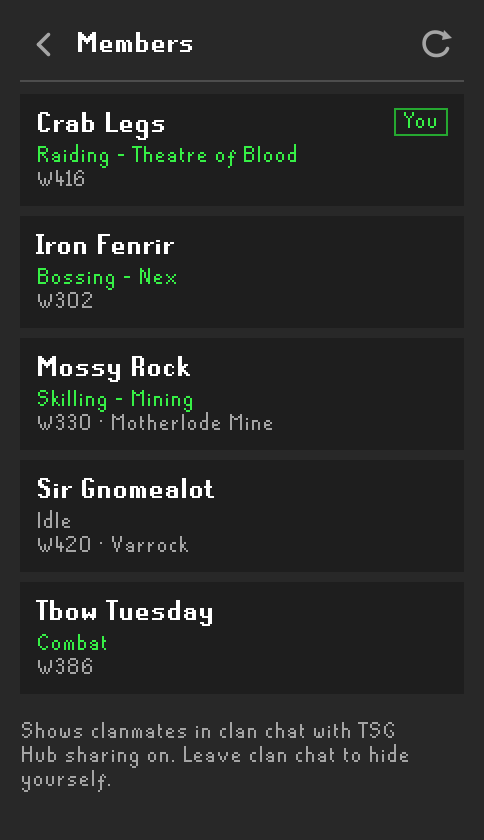
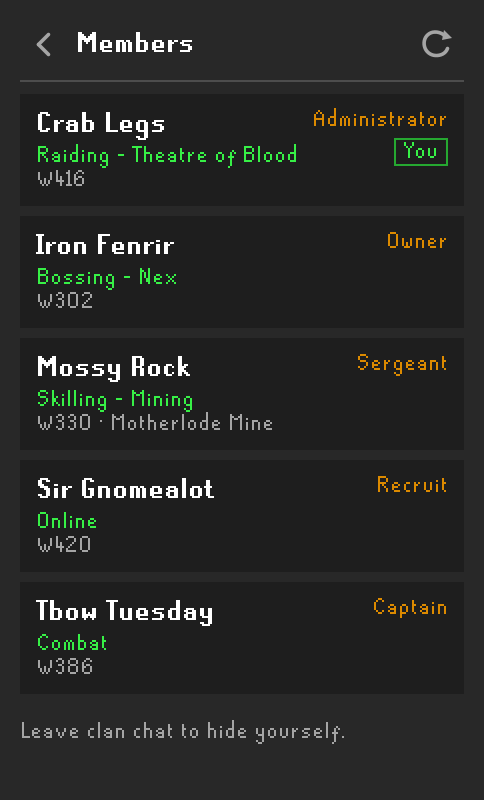
feat: add clan ranks and location sharing to members

diff --git a/src/main/java/com/tsghub/TsgHubPresence.java b/src/main/java/com/tsghub/TsgHubPresence.java
@@ -3,6 +3,9 @@ package com.tsghub;
 import com.google.gson.JsonArray;
 import com.google.gson.JsonObject;
 import com.tsghub.TsgHubUi.Tone;
+import java.awt.image.BufferedImage;
+import java.util.Map;
+import java.util.concurrent.ConcurrentHashMap;
 import java.util.concurrent.ScheduledExecutorService;
 import java.util.function.Consumer;
 import java.util.function.Supplier;
@@ -11,7 +14,12 @@ import net.runelite.api.Client;
 import net.runelite.api.GameState;
 import net.runelite.api.Player;
 import net.runelite.api.Skill;
+import net.runelite.api.clan.ClanMember;
+import net.runelite.api.clan.ClanSettings;
+import net.runelite.api.clan.ClanTitle;
 import net.runelite.api.coords.WorldPoint;
+import net.runelite.client.callback.ClientThread;
+import net.runelite.client.game.ChatIconManager;
 
 final class TsgHubPresence
 {
@@ -21,6 +29,9 @@ final class TsgHubPresence
 
 	private final TsgHubPlugin plugin;
 	private final Client client;
+	private final ClientThread clientThread;
+	private final ChatIconManager chatIcons;
+	private final Map<Integer, BufferedImage> rankIcons = new ConcurrentHashMap<>();
 	private final ScheduledExecutorService executor;
 	private final Supplier<TsgHubApi> api;
 	private final Supplier<TsgHubSidebarPanel> sidebar;
@@ -28,11 +39,13 @@ final class TsgHubPresence
 	private volatile JsonObject listed;
 	private volatile long sentAt;
 
-	TsgHubPresence(TsgHubPlugin plugin, Client client, ScheduledExecutorService executor,
+	TsgHubPresence(TsgHubPlugin plugin, Client client, ClientThread clientThread, ChatIconManager chatIcons, ScheduledExecutorService executor,
 		Supplier<TsgHubApi> api, Supplier<TsgHubSidebarPanel> sidebar)
 	{
 		this.plugin = plugin;
 		this.client = client;
+		this.clientThread = clientThread;
+		this.chatIcons = chatIcons;
 		this.executor = executor;
 		this.api = api;
 		this.sidebar = sidebar;
@@ -88,7 +101,10 @@ final class TsgHubPresence
 			try
 			{
 				JsonArray members = api.get().request("GET", "/v1/presence?clanName=" + clan, null, null).getAsJsonArray("members");
-				ui(s -> s.setMembers(members));
+				clientThread.invokeLater(() -> {
+					addRanks(members);
+					ui(s -> s.setMembers(members));
+				});
 			}
 			catch (Exception e) { if (!quiet) ui(s -> s.setStatus("Couldn't load members. " + TsgHubUi.friendlyError(e), Tone.ERROR)); }
 			finally { if (!quiet) ui(s -> s.setBusy(false)); }
@@ -101,6 +117,29 @@ final class TsgHubPresence
 		if (s != null && s.wantsMembers()) loadMembers(true);
 	}
 
+	private void addRanks(JsonArray members)
+	{
+		ClanSettings settings = client.getClanSettings();
+		if (settings == null) return;
+		for (int i = 0; i < members.size(); i++)
+		{
+			JsonObject member = members.get(i).getAsJsonObject();
+			ClanMember found = settings.findMember(TsgHubUi.str(member, "displayName"));
+			if (found == null || found.getRank() == null) continue;
+			ClanTitle title = settings.titleForRank(found.getRank());
+			if (title == null) continue;
+			if (title.getName() != null) member.addProperty("rank", title.getName());
+			member.addProperty("rankId", title.getId());
+			BufferedImage icon = chatIcons.getRankImage(title);
+			if (icon != null) rankIcons.put(title.getId(), icon);
+		}
+	}
+
+	BufferedImage rankIcon(JsonObject member)
+	{
+		return member.has("rankId") ? rankIcons.get(TsgHubUi.integer(member, "rankId", 0)) : null;
+	}
+
 	private JsonObject snapshot()
 	{
 		if (!plugin.sharingEnabled() || !plugin.isInHubClan() || !plugin.inClanChat()) return null;
@@ -109,7 +148,8 @@ final class TsgHubPresence
 		long hash = client.getAccountHash();
 		String name = plugin.getDetectedPlayerName();
 		if (player == null || player.getLocalLocation() == null || hash == -1 || name.isEmpty()) return null;
-		WorldPoint point = WorldPoint.fromLocalInstance(client, player.getLocalLocation());
+		boolean detailed = plugin.locationSharingEnabled();
+		WorldPoint point = detailed ? WorldPoint.fromLocalInstance(client, player.getLocalLocation()) : null;
 		AreaNames.Area area = point == null ? null : AreaNames.forRegion(point.getRegionID());
 		JsonObject payload = new JsonObject();
 		payload.addProperty("clanName", plugin.getDetectedClanName());
@@ -117,7 +157,7 @@ final class TsgHubPresence
 		payload.addProperty("accountHash", Long.toString(hash));
 		payload.addProperty("world", client.getWorld());
 		payload.addProperty("area", area == null ? "" : area.name);
-		payload.addProperty("activity", activity.activity(area, System.currentTimeMillis()));
+		payload.addProperty("activity", detailed ? activity.activity(area, System.currentTimeMillis()) : "Online");
 		return payload;
 	}
 

diff --git a/src/main/java/com/tsghub/TsgHubSidebarPanel.java b/src/main/java/com/tsghub/TsgHubSidebarPanel.java
@@ -348,8 +348,7 @@ final class TsgHubSidebarPanel extends PluginPanel
 		page.add(TsgHubUi.label("Share your progress", TsgHubUi.TEXT, FontManager.getRunescapeBoldFont()));
 		page.add(Box.createVerticalStrut(6));
 		page.add(TsgHubUi.wrapped("TSG Hub tracks your boss kills, drops and raids for clan events. "
-			+ "To do that it sends your RuneScape name, clan and rank, and that progress to your clan's event service. "
-			+ "While you're in clan chat, clanmates also see your world, area and what you're doing.",
+			+ "To do that it sends your RuneScape name, clan and rank, and that progress to your clan's event service.",
 			TsgHubUi.MUTED, FontManager.getRunescapeSmallFont(), TEXT_W));
 		page.add(Box.createVerticalStrut(4));
 		page.add(TsgHubUi.wrapped("Nothing is ever posted in game chat.", TsgHubUi.MUTED, FontManager.getRunescapeSmallFont(), TEXT_W));
@@ -466,6 +465,11 @@ final class TsgHubSidebarPanel extends PluginPanel
 		return members.size() + " online";
 	}
 
+	void locationSharingChanged()
+	{
+		if (view == View.MEMBERS) renderMembers();
+	}
+
 	void setMembers(JsonArray members)
 	{
 		this.members = members;
@@ -502,7 +506,8 @@ final class TsgHubSidebarPanel extends PluginPanel
 			}
 		}
 		page.add(Box.createVerticalStrut(8));
-		page.add(TsgHubUi.wrapped("Shows clanmates in clan chat with TSG Hub sharing on. Leave clan chat to hide yourself.", TsgHubUi.MUTED, small, TEXT_W));
+		page.add(TsgHubUi.wrapped(plugin.locationSharingEnabled() ? "Leave clan chat to hide yourself."
+			: "You show as Online. Turn on location sharing in settings to show what you're doing.", TsgHubUi.MUTED, small, TEXT_W));
 		refreshPage();
 	}
 
@@ -514,7 +519,16 @@ final class TsgHubSidebarPanel extends PluginPanel
 		int world = TsgHubUi.integer(member, "world", 0);
 		JPanel card = TsgHubUi.card();
 		JPanel text = TsgHubUi.stack();
-		text.add(TsgHubUi.label(TsgHubUi.html("<b>" + TsgHubUi.escape(name) + "</b>", CARD_TITLE_W), TsgHubUi.TEXT, FontManager.getRunescapeFont()));
+		String rank = TsgHubUi.str(member, "rank");
+		java.awt.image.BufferedImage rankIcon = plugin.presence().rankIcon(member);
+		JLabel nameLabel = TsgHubUi.label(TsgHubUi.html("<b>" + TsgHubUi.escape(name) + "</b>", CARD_TITLE_W - (rankIcon == null ? 0 : rankIcon.getWidth() + 4)), TsgHubUi.TEXT, FontManager.getRunescapeFont());
+		if (rankIcon != null)
+		{
+			nameLabel.setIcon(new javax.swing.ImageIcon(rankIcon));
+			nameLabel.setIconTextGap(4);
+			nameLabel.setToolTipText(rank);
+		}
+		text.add(nameLabel);
 		text.add(Box.createVerticalStrut(2));
 		if (!activity.isEmpty())
 			text.add(TsgHubUi.wrapped(activity, "Idle".equals(activity) ? TsgHubUi.MUTED : TsgHubUi.SUCCESS, FontManager.getRunescapeSmallFont(), CARD_TITLE_W));
@@ -523,12 +537,22 @@ final class TsgHubSidebarPanel extends PluginPanel
 		if (!area.isEmpty() && !activity.endsWith(area)) where.add(area);
 		if (!where.isEmpty()) text.add(TsgHubUi.wrapped(String.join(" · ", where), TsgHubUi.MUTED, FontManager.getRunescapeSmallFont(), CARD_TITLE_W));
 		card.add(text, BorderLayout.CENTER);
-		if (TsgHubUi.samePlayer(name, plugin.getDetectedPlayerName()))
+		boolean rankText = rankIcon == null && !rank.isEmpty();
+		boolean self = TsgHubUi.samePlayer(name, plugin.getDetectedPlayerName());
+		if (rankText || self)
 		{
-			JPanel east = new JPanel(new BorderLayout());
-			east.setOpaque(false);
-			east.add(TsgHubUi.badge("You", TsgHubUi.SUCCESS), BorderLayout.NORTH);
-			card.add(east, BorderLayout.EAST);
+			JPanel east = TsgHubUi.stack();
+			if (rankText) east.add(TsgHubUi.label(rank, TsgHubUi.ACCENT, FontManager.getRunescapeSmallFont()));
+			if (self)
+			{
+				if (rankText) east.add(Box.createVerticalStrut(3));
+				east.add(TsgHubUi.badge("You", TsgHubUi.SUCCESS));
+			}
+			for (java.awt.Component part : east.getComponents()) ((javax.swing.JComponent) part).setAlignmentX(RIGHT_ALIGNMENT);
+			JPanel wrap = new JPanel(new BorderLayout());
+			wrap.setOpaque(false);
+			wrap.add(east, BorderLayout.NORTH);
+			card.add(wrap, BorderLayout.EAST);
 		}
 		return TsgHubUi.fitHeight(card);
 	}

diff --git a/src/test/java/com/tsghub/ReadmeScreenshots.java b/src/test/java/com/tsghub/ReadmeScreenshots.java
@@ -32,6 +32,7 @@ public class ReadmeScreenshots
 	private static final int SCALE = 2;
 	private static final int SIDEBAR_W = 242;
 	private static JsonObject data;
+	private static boolean sharing;
 	private static File out;
 
 	public static void main(String[] args) throws Exception
@@ -61,12 +62,12 @@ public class ReadmeScreenshots
 		set(plugin, "detectedClanRank", 100);
 		set(plugin, "detectedPlayerName", "Crab Legs");
 		set(plugin, "groups", new TsgHubGroups(plugin, null, (PartyService) unsafe().allocateInstance(PartyService.class), null, null, null));
-		set(plugin, "presence", new TsgHubPresence(plugin, null, null, null, null));
+		set(plugin, "presence", new TsgHubPresence(plugin, null, null, null, stopped(), null, null));
 
 		TsgHubSidebarPanel sidebar = new TsgHubSidebarPanel(plugin, new GroupMembersPanel(new GroupViewSettings() {}, null, null));
 
 		sidebar.showSharingOff();
-		shoot(sidebar, SIDEBAR_W, 250, "sharing");
+		shoot(sidebar, SIDEBAR_W, 210, "sharing");
 
 		JsonArray events = data.getAsJsonObject("eventList").getAsJsonArray("events");
 		for (int i = 0; i < events.size(); i++)
@@ -96,8 +97,9 @@ public class ReadmeScreenshots
 		sidebar.showParties();
 		BufferedImage parties = shoot(sidebar, SIDEBAR_W, 480, "parties");
 
+		sharing = true;
 		sidebar.showMembers();
-		shoot(sidebar, SIDEBAR_W, 420, "members");
+		shoot(sidebar, SIDEBAR_W, 400, "members");
 
 		TsgHubPanel organizer = new TsgHubPanel(plugin);
 		organizer.setManagedEvents(data.getAsJsonObject("managed").getAsJsonArray("events"));
@@ -201,13 +203,20 @@ public class ReadmeScreenshots
 		return null;
 	}
 
-	// Interface stub returning false, 0 or null.
+	private static java.util.concurrent.ScheduledExecutorService stopped()
+	{
+		java.util.concurrent.ScheduledExecutorService executor = java.util.concurrent.Executors.newSingleThreadScheduledExecutor();
+		executor.shutdown();
+		return executor;
+	}
+
+	// Interface stub returning false, 0 or null, with sharing on once enabled.
 	@SuppressWarnings("unchecked")
 	private static <T> T stub(Class<T> type)
 	{
 		return (T) Proxy.newProxyInstance(type.getClassLoader(), new Class<?>[]{type}, (proxy, method, args) -> {
 			Class<?> r = method.getReturnType();
-			if (r == boolean.class) return false;
+			if (r == boolean.class) return sharing && (method.getName().equals("dataSharingOptIn") || method.getName().equals("shareLocation"));
 			if (r == int.class) return 0;
 			if (r == long.class) return 0L;
 			return null;

diff --git a/src/main/java/com/tsghub/TsgHubPlugin.java b/src/main/java/com/tsghub/TsgHubPlugin.java
@@ -82,6 +82,7 @@ public class TsgHubPlugin extends Plugin
 	@Inject private MouseManager mouseManager;
 	@Inject private okhttp3.OkHttpClient okHttpClient;
 	@Inject private ChatMessageManager chatMessageManager;
+	@Inject private net.runelite.client.game.ChatIconManager chatIconManager;
 	@Inject private net.runelite.client.party.PartyService partyService;
 	@Inject private net.runelite.client.party.WSClient wsClient;
 	@Inject private net.runelite.client.game.SpriteManager spriteManager;
@@ -157,7 +158,7 @@ public class TsgHubPlugin extends Plugin
 		eventBus.register(groupTracker);
 		groupTracker.start();
 		executor.scheduleAtFixedRate(groups::heartbeat, 5, TsgHubGroups.HEARTBEAT_SECONDS, TimeUnit.SECONDS);
-		presence = new TsgHubPresence(this, client, executor, this::api, () -> sidebar);
+		presence = new TsgHubPresence(this, client, clientThread, chatIconManager, executor, this::api, () -> sidebar);
 		executor.scheduleAtFixedRate(presence::autoRefresh, TsgHubPresence.REFRESH_SECONDS, TsgHubPresence.REFRESH_SECONDS, TimeUnit.SECONDS);
 		boardOverlay = new TsgHubBoardOverlay(client);
 		overlayManager.add(boardOverlay);
@@ -250,6 +251,7 @@ public class TsgHubPlugin extends Plugin
 
 	String getDetectedClanName() { return detectedClanName; }
 	boolean sharingEnabled() { return config.dataSharingOptIn(); }
+	boolean locationSharingEnabled() { return config.dataSharingOptIn() && config.shareLocation(); }
 	TsgHubGroups groups() { return groups; }
 	TsgHubPresence presence() { return presence; }
 	boolean inClanChat() { return inClanChat; }
@@ -361,6 +363,11 @@ public class TsgHubPlugin extends Plugin
 		{
 			boolean expand = "partyExpandMembers".equals(event.getKey());
 			SwingUtilities.invokeLater(() -> sidebar.groupSettingsChanged(expand));
+			return;
+		}
+		if ("shareLocation".equals(event.getKey()))
+		{
+			SwingUtilities.invokeLater(() -> sidebar.locationSharingChanged());
 			return;
 		}
 		if (!"dataSharingOptIn".equals(event.getKey())) return;

diff --git a/src/main/java/com/tsghub/TsgHubConfig.java b/src/main/java/com/tsghub/TsgHubConfig.java
@@ -8,11 +8,20 @@ import net.runelite.client.config.ConfigSection;
 @ConfigGroup("tsghub")
 public interface TsgHubConfig extends Config
 {
+	@ConfigSection(name = "Sharing", description = "What TSG Hub sends to the clan's event service.", position = 0)
+	String sharingSection = "sharing";
+
 	@ConfigSection(name = "Party", description = "How clan parties look in the TSG Hub sidebar.", position = 10)
 	String partySection = "party";
 
-	@ConfigItem(keyName = "dataSharingOptIn", position = 0, name = "Share game and clan progress", description = "Opt in to send your RuneScape name, detected clan and rank, PvM progress, loot received during events you join, submitted claims, clan chat presence, and your world, area name and current activity while you're in clan chat to the TSG Hub service. Progress and tile-completion notices are local to your chatbox; no game chat is sent.")
+	@ConfigItem(keyName = "dataSharingOptIn", position = 0, section = sharingSection, name = "Share game and clan progress", description = "Opt in to send your RuneScape name, detected clan and rank, PvM progress, loot received during events you join, submitted claims, and clan chat presence and world (so clanmates see you as online in the Members list) to the TSG Hub service. Progress and tile-completion notices are local to your chatbox; no game chat is sent.")
 	default boolean dataSharingOptIn()
+	{
+		return false;
+	}
+
+	@ConfigItem(keyName = "shareLocation", position = 1, section = sharingSection, name = "Share location and activity", description = "Show clanmates your area name and what you're doing (for example Skilling - Mining) in the Members list. When off, you still appear while in clan chat, with just Online and your world. Your exact tile is never sent.")
+	default boolean shareLocation()
 	{
 		return false;
 	}

diff --git a/README.md b/README.md
@@ -91,7 +91,7 @@ The **Members** section lists clanmates who are in clan chat with sharing on. Ea
 
 Activity is detected automatically from where you are and the XP you gain. Only the area name is sent, never your exact tile.
 
-Leave clan chat to hide yourself. You also drop off the list when you log out or turn sharing off.
+Anyone in clan chat with sharing on appears in the list. Your area and activity are only shown if you turn on **Share location and activity** under **Sharing** in the plugin settings; otherwise clanmates just see **Online** and your world, the same as clan chat shows. Leave clan chat to hide yourself, and you also drop off the list when you log out.
 
 </td>
 </tr>
